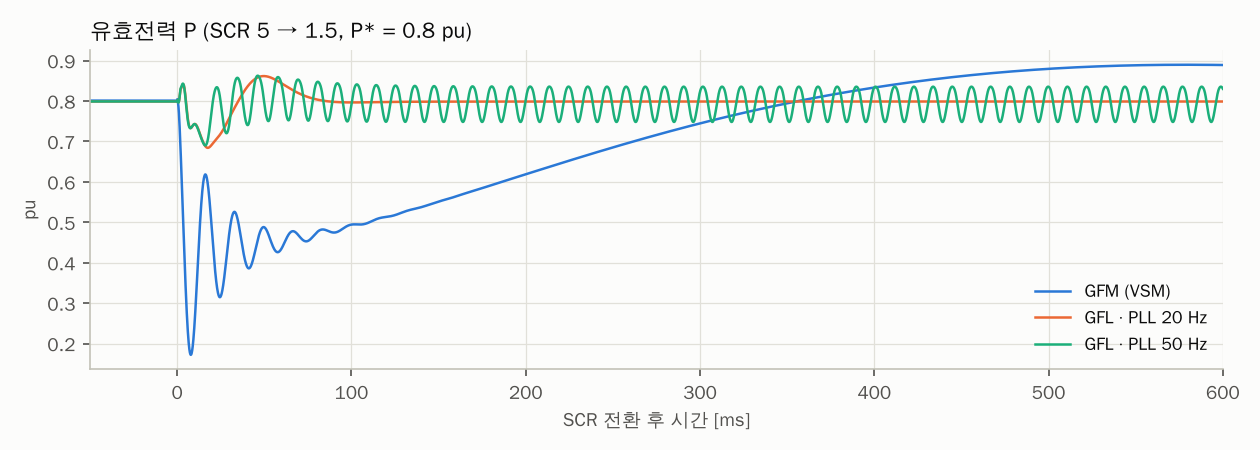
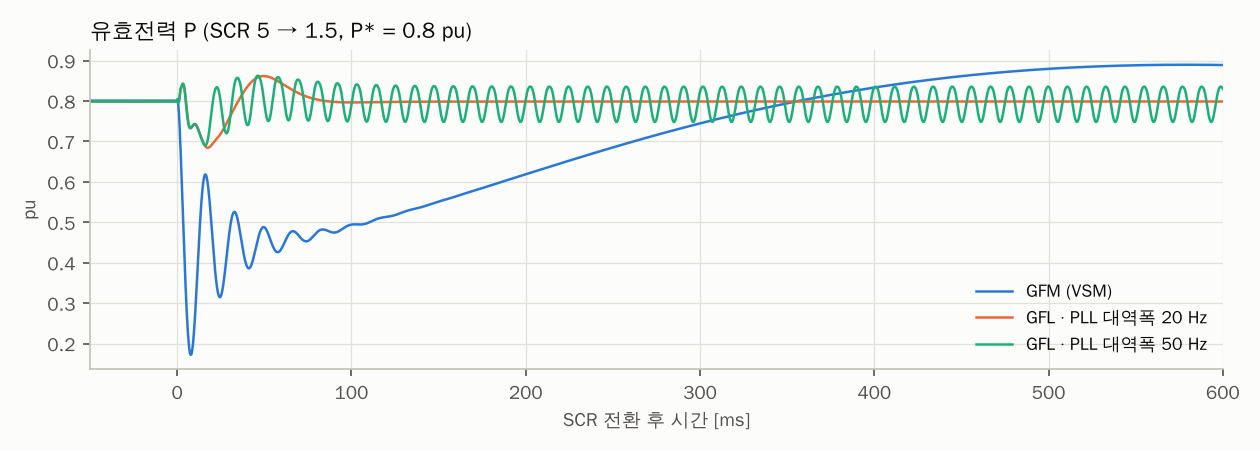
docs: 변조 한계를 1.303 pu로 정정, 'PLL 대역폭' 표기 통일, 관련 그림 재생성
- V_dc/√3 = 2.2561/√3 = 1.3026 → 1.303 pu (기존 1.302는 반올림 오류)
- 강좌·계획·README의 'PLL x Hz'를 'PLL 대역폭 x Hz'로 (계통 주파수 60 Hz와 구분)
- C03·C03B·C04·C06·C08·C09·C10 그림 재생성

Claude-Session: https://claude.ai/code/session_01JwYyJrLg4g9BGRvmGMf9oK

Changed region(s): [[0.7738, 0.6222, 0.9286, 0.7156], [0.7738, 0.7467, 0.9286, 0.7778]]

diff --git a/docs/_assets/강좌/scripts/C04_figs.py b/docs/_assets/강좌/scripts/C04_figs.py
@@ -23,7 +23,7 @@ def minmax(ref):
     return -0.5 * (ref.max(axis=1) + ref.min(axis=1))
 
 
-# ---- 그림 1: 영상분 주입 변조파 (상전압 지령 진폭 1.302 pu) ----
+# ---- 그림 1: 영상분 주입 변조파 (상전압 지령 진폭 1.303 pu) ----
 t = np.linspace(0, 1 / f0, 2001)
 vm = VDC / np.sqrt(3)
 ref = np.stack([vm * np.cos(2 * np.pi * f0 * t - k * 2 * np.pi / 3) for k in range(3)], axis=1)
@@ -33,7 +33,7 @@ fig, axs = plt.subplots(3, 1, figsize=(7.2, 6.6), sharex=True)
 for k, (nm, c) in enumerate(zip("abc", (BLUE, ORANGE, AQUA))):
     axs[0].plot(tm, ref[:, k], color=c, label=f"{nm}상 지령")
 axs[0].set_ylabel("상전압 지령 [pu]")
-axs[0].set_title("지령 진폭 1.302 pu: 사인 그대로는 ±1.128 pu(= ±$V_{dc}$/2)를 넘는다", fontsize=10)
+axs[0].set_title("지령 진폭 1.303 pu: 사인 그대로는 ±1.128 pu(= ±$V_{dc}$/2)를 넘는다", fontsize=10)
 axs[1].plot(tm, v0, color=GRAY, label="$v_0 = -(\\max+\\min)/2$")
 axs[1].set_ylabel("영상분 [pu]")
 axs[1].set_title("min-max 영상분 (3배 주파수 삼각파 모양)", fontsize=10)
@@ -51,7 +51,7 @@ for a in axs:
     a.grid(alpha=0.25, lw=0.5)
     a.legend(loc="upper right", fontsize=8, ncol=3, frameon=False)
 for a in (axs[0], axs[2]):
-    a.annotate("-1.302", xy=(8.33, -1.302), xytext=(9.6, -1.52), fontsize=8, color=BLUE,
+    a.annotate("-1.303", xy=(8.33, -1.303), xytext=(9.6, -1.52), fontsize=8, color=BLUE,
                arrowprops=dict(arrowstyle="-", color=BLUE, lw=0.6))
 axs[1].set_ylim(-0.5, 0.6); axs[1].set_yticks([-0.2, 0, 0.2]); axs[1].set_yticklabels(["-0.2", "0", "0.2"])
 fig.tight_layout()

diff --git a/docs/_assets/강좌/scripts/C10_figs.py b/docs/_assets/강좌/scripts/C10_figs.py
@@ -54,8 +54,8 @@ def tms(r):
 
 
 def fig_scr_step(plt):
-    cases = [("GFM (VSM)", "GFM", 20, BLUE, "-"), ("GFL · PLL 20 Hz", "GFL", 20, ORANGE, "-"),
-             ("GFL · PLL 50 Hz", "GFL", 50, AQUA, "-")]
+    cases = [("GFM (VSM)", "GFM", 20, BLUE, "-"), ("GFL · PLL 대역폭 20 Hz", "GFL", 20, ORANGE, "-"),
+             ("GFL · PLL 대역폭 50 Hz", "GFL", 50, AQUA, "-")]
     res = [(lab, run_scr(m, fp, 1.5, 0.8), c, ls) for lab, m, fp, c, ls in cases]
     fig, ax = plt.subplots(figsize=(8.4, 3.0))
     for lab, r, c, ls in res:
@@ -75,10 +75,10 @@ def fig_osc_types(plt):
     r2 = run_scr("GFL", 50, 1.5, 0.8)
     fig, ax = plt.subplots(1, 2, figsize=(8.4, 3.0))
     ax[0].plot(tms(r1), r1["P"], color=ORANGE)
-    ax[0].set_title("① 동기화 상실형: PLL 10 Hz, SCR 1.3")
+    ax[0].set_title("① 동기화 상실형: PLL 대역폭 10 Hz, SCR 1.3")
     ax[0].set_xlim(-50, 600)
     ax[1].plot(tms(r2), r2["P"], color=AQUA)
-    ax[1].set_title("② 상호작용형: PLL 50 Hz, SCR 1.5")
+    ax[1].set_title("② 상호작용형: PLL 대역폭 50 Hz, SCR 1.5")
     ax[1].set_xlim(400, 460)
     ax[1].set_ylim(0.72, 0.88)
     for a in ax:

diff --git a/simulation/emt/test_emt.py b/simulation/emt/test_emt.py
@@ -87,7 +87,7 @@ def test_gfm_current_limit_during_fault():
 def test_switching_model_steady_state_and_ripple():
     """5 kHz 스위칭 모델: 샘플 평균은 지령을 추종하고, 순시 전류에는 스위칭 리플이 있다."""
     p = Params(P_ref=0.5, scr=3.0)                       # 기본 converter="switching"
-    assert abs(p.V_conv_max - 700 / math.sqrt(3) / (380 * math.sqrt(2 / 3))) < 1e-9   # 1.302 pu
+    assert abs(p.V_conv_max - 700 / math.sqrt(3) / (380 * math.sqrt(2 / 3))) < 1e-9   # 1.303 pu
     for mode in ("GFL", "GFM"):
         r = simulate(mode, p, Scenario(t_end=1.0, p_ref=lambda t: 0.5 * min(1.0, t / 0.3)),
                      dt=2e-6, hires=(0.95, 0.97))

diff --git a/docs/_assets/강좌/scripts/C06_figs.py b/docs/_assets/강좌/scripts/C06_figs.py
@@ -178,7 +178,7 @@ axs[1].axhline(60.0, color=GRAY, lw=0.7, ls=":")
 axs[1].set_ylabel("PLL 측정 주파수 [Hz]")
 axs[1].set_xlabel("시간 [ms] (5 ms 이동평균)")
 axs[1].set_ylim(59.5, 62.0)
-axs[1].set_title(f"EMT 모델, PLL 50 Hz: 오프셋 ≈ kp·ω·Ts/2 = {off_hz:.2f} Hz (계통은 60 Hz)", fontsize=10)
+axs[1].set_title(f"EMT 모델, PLL 대역폭 50 Hz: 오프셋 ≈ kp·ω·Ts/2 = {off_hz:.2f} Hz (계통은 60 Hz)", fontsize=10)
 axs[1].legend(loc="upper right", fontsize=8, frameon=False)
 for a in axs:
     a.grid(alpha=0.25, lw=0.5)

diff --git a/docs/_assets/강좌/scripts/C03B_figs.py b/docs/_assets/강좌/scripts/C03B_figs.py
@@ -34,7 +34,7 @@ def cls(v):
     return "large"
 
 style = {"large": (BLUE, f"대벡터 6개 (|V| = 2/3·$V_{{dc}}$ = {2*VDC/3:.3f} pu)"),
-         "medium": (ORANGE, "중벡터 6개 (|V| = $V_{dc}/\\sqrt{3}$ ≈ 1.302 pu)"),
+         "medium": (ORANGE, "중벡터 6개 (|V| = $V_{dc}/\\sqrt{3}$ ≈ 1.303 pu)"),
          "small": (AQUA, f"소벡터 6개 × 상태 2개 (|V| = $V_{{dc}}$/3 = {VDC/3:.3f} pu)"),
          "zero": (GRAY, "영벡터 1개 × 상태 3개")}
 fig, ax = plt.subplots(figsize=(7.0, 6.6))

diff --git a/simulation/emt/gfm_gfl_emt.py b/simulation/emt/gfm_gfl_emt.py
@@ -104,7 +104,7 @@ class Params:
 
     @property
     def V_conv_max(self) -> float:
-        """선형 변조 영역에서 컨버터가 낼 수 있는 최대 상전압 진폭 [pu] (700 V/380 V, SVPWM → 1.302)."""
+        """선형 변조 영역에서 컨버터가 낼 수 있는 최대 상전압 진폭 [pu] (700 V/380 V, SVPWM → 1.303)."""
         vmax = self.V_dc / math.sqrt(3.0) if self.modulation == "svpwm" else self.V_dc / 2.0
         return vmax / self.V_base_peak
 

diff --git a/docs/_assets/강좌/scripts/C03_figs.py b/docs/_assets/강좌/scripts/C03_figs.py
@@ -34,7 +34,7 @@ ax.plot(hexv.real, hexv.imag, color=BLUE, lw=1.0, label="유효 벡터를 잇는
 r = VDC / np.sqrt(3)
 th = np.linspace(0, 2 * np.pi, 300)
 ax.plot(r * np.cos(th), r * np.sin(th), color=AQUA, lw=1.0, ls="--",
-        label="내접원 반지름 $V_{dc}/\\sqrt{3}$ ≈ 1.302 pu")
+        label="내접원 반지름 $V_{dc}/\\sqrt{3}$ ≈ 1.303 pu")
 for k, s in enumerate(order):
     v = ab(*s)
     ax.annotate("", xy=(v.real, v.imag), xytext=(0, 0),

diff --git a/docs/_assets/강좌/scripts/C09_figs.py b/docs/_assets/강좌/scripts/C09_figs.py
@@ -82,7 +82,7 @@ def fig_phase_jump(plt):
     for mode, c in (("GFM", BLUE), ("GFL", ORANGE)):
         r = res[mode]
         t = (np.asarray(r["t"]) - t_ev) * 1e3
-        lab = "GFM (VSM)" if mode == "GFM" else "GFL (PLL 20 Hz)"
+        lab = "GFM (VSM)" if mode == "GFM" else "GFL (PLL 대역폭 20 Hz)"
         ax[0].plot(t, r["P"], color=c, label=lab)
         ax[1].plot(t, r["freq"], color=c, label=lab)
     ax[0].axvspan(0, 10, color=GRID, alpha=0.6, lw=0)

diff --git a/docs/_assets/강좌/scripts/C08_figs.py b/docs/_assets/강좌/scripts/C08_figs.py
@@ -94,7 +94,7 @@ def fig_phase_jump(plt):
     ax[0].legend(loc="center right")
     ax[1].plot(t, r["freq"], color=ORANGE)
     ax[1].axhline(54, color=GREY, lw=0.8, ls=":")
-    ax[1].set_title("PLL 측정 주파수 (PLL 20 Hz)")
+    ax[1].set_title("PLL 측정 주파수 (PLL 대역폭 20 Hz)")
     ax[1].set_ylabel("Hz")
     for a in ax:
         a.set_xlabel("위상 점프(−20°) 후 시간 [ms]")

diff --git a/docs/09-강좌-3상컨버터에서-GFM까지/C04-변조-SPWM-SVPWM.md b/docs/09-강좌-3상컨버터에서-GFM까지/C04-변조-SPWM-SVPWM.md
@@ -24,13 +24,13 @@ updated: 2026-11-01
 # C04. 변조 — SPWM과 SVPWM
 
 > [!abstract] 이 강의에서 답할 질문
-> 스위치 상태 8개뿐인 컨버터가 원하는 크기의 사인파 전압을 어떻게 "평균으로" 만드는가? 그리고 같은 $V_{dc}$ = 2.256 pu 에서 낼 수 있는 최대 전압이 왜 1.128 pu 가 아니라 1.302 pu 이며, 그 여유가 GFM 성능과 어떻게 이어지는가?
+> 스위치 상태 8개뿐인 컨버터가 원하는 크기의 사인파 전압을 어떻게 "평균으로" 만드는가? 그리고 같은 $V_{dc}$ = 2.256 pu 에서 낼 수 있는 최대 전압이 왜 1.128 pu 가 아니라 1.303 pu 이며, 그 여유가 GFM 성능과 어떻게 이어지는가?
 
 > [!info] 학습 목표
 > - 삼각파 비교 PWM과 변조지수를 설명하고, 듀티에서 평균 극전압을 계산할 수 있다.
-> - SPWM의 최대 상전압 진폭 $V_{dc}/2$ = 1.128 pu 와 min-max 영상분 주입(= SVPWM 등가)의 $V_{dc}/\sqrt3$ ≈ 1.302 pu 를 유도할 수 있다.
+> - SPWM의 최대 상전압 진폭 $V_{dc}/2$ = 1.128 pu 와 min-max 영상분 주입(= SVPWM 등가)의 $V_{dc}/\sqrt3$ ≈ 1.303 pu 를 유도할 수 있다.
 > - 과변조, 스위칭 고조파의 위치, 반송파 꼭짓점 동기 2회 갱신을 설명할 수 있다.
-> - 운전점과 과도 응답에 필요한 전압을 1.302 pu 와 비교해 전압 여유를 판단할 수 있다.
+> - 운전점과 과도 응답에 필요한 전압을 1.303 pu 와 비교해 전압 여유를 판단할 수 있다.
 
 ## 1. 핵심 개념
 
@@ -73,7 +73,7 @@ $$
 주입 후 변조파의 최댓값은 $\tfrac{\sqrt3}{2}\hat V$ 로 줄어든다. 이것이 $V_{dc}/2$ 에 닿을 때가 한계이므로
 
 $$
-\hat V_{\max} = \frac{V_{dc}}{\sqrt3} \approx 1.302\ \text{pu}, \qquad \frac{1.302}{1.128} = \frac{2}{\sqrt3} \approx 1.155 \;(\text{약 } 15.5\,\%\ \text{이득})
+\hat V_{\max} = \frac{V_{dc}}{\sqrt3} \approx 1.303\ \text{pu}, \qquad \frac{1.303}{1.128} = \frac{2}{\sqrt3} \approx 1.155 \;(\text{약 } 15.5\,\%\ \text{이득})
 $$
 
 이는 [[C03-2레벨-VSC]] 육각형의 내접원 반지름과 같다. 즉 min-max 주입은 육각형을 남김없이 쓰는 변조이고, 공간벡터 PWM(space vector PWM, SVPWM)과 같은 스위칭 패턴을 만든다. 모델의 `Inverter.sample()` 이 정확히 이 식으로 상별 듀티를 계산한다(±1 로 클리핑).
@@ -97,7 +97,7 @@ $$
 
 ### 1.4 과변조
 
-지령이 1.302 pu 를 넘으면 변조파가 ±1 을 넘어 클리핑되는 구간이 생긴다. 이를 **과변조(overmodulation)** 라 한다.
+지령이 1.303 pu 를 넘으면 변조파가 ±1 을 넘어 클리핑되는 구간이 생긴다. 이를 **과변조(overmodulation)** 라 한다.
 
 - 기본파 출력은 지령보다 덜 늘고(이득 저하), 5·7·11·13차 같은 저차 고조파가 생긴다.
 - 끝은 육각형 꼭짓점만 차례로 쓰는 6스텝이며, 기본파 진폭은 $2V_{dc}/\pi$ = 1.436 pu ($m = 4/\pi$ ≈ 1.273) 다([[C03-2레벨-VSC]] 그림 2).
@@ -122,9 +122,9 @@ $$
 - 모델의 기록 간격 100 µs 도 꼭짓점에 맞춰 있어 기록값이 리플 평균에 해당한다.
 - 샘플 후 계산한 지령은 다음 샘플에 적용되고(1샘플), PWM 출력은 평균적으로 반 샘플 늦다. 합계 약 1.5 $T_s$ = 150 µs 지연이며, 이는 [[C06-디지털-제어와-지연]]에서 다룬다.
 
-### 1.7 전압 여유 1.302 pu 의 의미
+### 1.7 전압 여유 1.303 pu 의 의미
 
-1.302 pu 는 컨버터가 단자에 걸 수 있는 전압 **전부**다. 다음이 모두 이 안에 들어가야 한다.
+1.303 pu 는 컨버터가 단자에 걸 수 있는 전압 **전부**다. 다음이 모두 이 안에 들어가야 한다.
 
 1. **PCC 전압 자체**: 정상 1 pu, 계통 고전압 조건에서는 그 이상.
 2. **필터·변압기 전압강하**: 전류가 리액턴스($L_f + L_t$ = 0.3 pu)에 만드는 강하. 무효전력을 내보낼수록(용량성 운전) 크다.
@@ -158,7 +158,7 @@ $$
 
 ![[C04-영상분주입-변조파.png]]
 
-*그림 1. 상전압 지령 진폭 1.302 pu. 위: 사인 지령은 ±1.128 pu(= ±$V_{dc}$/2, 주황 점선)를 넘는다. 가운데: min-max 영상분(3배 주파수 삼각파 모양). 아래: 주입 후 변조파는 봉우리가 깎여 정확히 ±1.128 pu 에 닿는다.*
+*그림 1. 상전압 지령 진폭 1.303 pu. 위: 사인 지령은 ±1.128 pu(= ±$V_{dc}$/2, 주황 점선)를 넘는다. 가운데: min-max 영상분(3배 주파수 삼각파 모양). 아래: 주입 후 변조파는 봉우리가 깎여 정확히 ±1.128 pu 에 닿는다.*
 
 ![[C04-반송파-2회갱신.png]]
 
@@ -218,7 +218,7 @@ print(f"주입 없이 최대 진폭  = {h:.4f} pu")
 print(f"min-max 주입 최대 진폭 = {lo:.4f} pu   (V_dc/√3 = {V_dc/np.sqrt(3):.4f})")
 
 ref, mw = modwave(V_dc / np.sqrt(3))
-plt.plot(t * 1e3, ref[0], ":", label="사인 지령 1.302 pu")
+plt.plot(t * 1e3, ref[0], ":", label="사인 지령 1.303 pu")
 plt.plot(t * 1e3, mw[0], label="영상분 주입 변조파")
 plt.axhline(h, ls="--", color="gray"); plt.axhline(-h, ls="--", color="gray")
 plt.xlabel("시간 [ms]"); plt.ylabel("[pu]"); plt.legend(); plt.show()
@@ -238,7 +238,7 @@ X = 0.20 + 0.10                                  # Lf + 변압기 [pu]
 for V, P, Q in ((1.0, 1.0, 0.0), (1.0, 0.8, 0.6), (1.0, 0.0, 1.0), (1.1, 0.8, 0.6)):
     i = np.conj((P + 1j * Q) / V)                # PCC 전압을 기준 위상(실수)으로
     v_conv = V + 1j * X * i
-    print(f"V={V:.2f} P={P:+.1f} Q={Q:+.1f} → |v_conv| = {abs(v_conv):.3f} pu  (여유 {1.302-abs(v_conv):+.3f})")
+    print(f"V={V:.2f} P={P:+.1f} Q={Q:+.1f} → |v_conv| = {abs(v_conv):.3f} pu  (여유 {1.303-abs(v_conv):+.3f})")
 ```
 
 ```
@@ -256,13 +256,13 @@ V=1.10 P=+0.8 Q=+0.6 → |v_conv| = 1.282 pu  (여유 +0.020)
 ## 4. 흔한 오해
 
 > [!warning] 오해: DC 전압만 충분하면 GFM 성능은 변조와 무관하다
-> GFM은 위상 점프나 고장 같은 계통 외란에 **즉시** 전류를 바꿔 응답하는 것이 핵심 기능이다([[04-GFM-핵심기능]]). 전류를 바꾸려면 필터 인덕터에 추가 전압을 걸어야 하고, 그 전압은 "1.302 pu − 정상상태 필요 전압"인 여유에서만 나온다. 같은 $V_{dc}$ 라도 용량성 무효전력을 내거나 계통 전압이 높으면 여유가 0에 가까워져, 위상 점프 응답이 느려지거나 전압 제한에 걸려 파형이 일그러진다. 고장 제거 후 전압이 돌아오는 순간에도 전류를 제자리로 돌리는 데 여유가 쓰인다([[03-전류제한-고장대응]], [[C11-전류-제한과-고장]]). SPWM(1.128 pu)이었다면 P = 0.8, Q = 0.6 운전점부터 이미 불가능하다.
+> GFM은 위상 점프나 고장 같은 계통 외란에 **즉시** 전류를 바꿔 응답하는 것이 핵심 기능이다([[04-GFM-핵심기능]]). 전류를 바꾸려면 필터 인덕터에 추가 전압을 걸어야 하고, 그 전압은 "1.303 pu − 정상상태 필요 전압"인 여유에서만 나온다. 같은 $V_{dc}$ 라도 용량성 무효전력을 내거나 계통 전압이 높으면 여유가 0에 가까워져, 위상 점프 응답이 느려지거나 전압 제한에 걸려 파형이 일그러진다. 고장 제거 후 전압이 돌아오는 순간에도 전류를 제자리로 돌리는 데 여유가 쓰인다([[03-전류제한-고장대응]], [[C11-전류-제한과-고장]]). SPWM(1.128 pu)이었다면 P = 0.8, Q = 0.6 운전점부터 이미 불가능하다.
 
 > [!warning] 오해: SVPWM은 반송파 PWM과 완전히 다른 알고리즘이다
 > 영벡터를 반씩 나누는 고전적 SVPWM은 반송파 비교 PWM에 min-max 영상분을 더한 것과 같은 스위칭 패턴을 만든다. 섹터 판별·시간 계산 없이 상별 비교만으로 구현할 수 있어, 이 강좌의 모델도 그렇게 한다.
 
 > [!warning] 오해: 과변조 영역까지 쓰면 전압이 더 나오니 손해가 없다
-> 1.302 pu 를 넘으면 기본파 이득이 떨어지고 5·7차 등 저차 고조파가 생긴다. 전류 제어기가 보기엔 지령 전압이 나오지 않는 것이므로 응답이 나빠진다. 그래서 대부분의 제어기는 지령을 선형 한계(원)로 자르고 적분기를 멈춘다.
+> 1.303 pu 를 넘으면 기본파 이득이 떨어지고 5·7차 등 저차 고조파가 생긴다. 전류 제어기가 보기엔 지령 전압이 나오지 않는 것이므로 응답이 나빠진다. 그래서 대부분의 제어기는 지령을 선형 한계(원)로 자르고 적분기를 멈춘다.
 
 ## 5. 확인 문제
 
@@ -277,7 +277,7 @@ V=1.10 P=+0.8 Q=+0.6 → |v_conv| = 1.282 pu  (여유 +0.020)
 
 > [!success]- 답
 > $\vec i = 0.8 - j0.6$, $\vec v_{conv} = 1 + j0.3(0.8 - j0.6) = 1.18 + j0.24$, $|\vec v_{conv}| = 1.204$ pu.
-> SVPWM 한계 1.302 pu 대비 여유 0.098 pu. 전류 0.5 pu 를 바꾸는 데 최소 약 $0.2 \times 0.5 / (377 \times 0.098) \approx 2.7$ ms.
+> SVPWM 한계 1.303 pu 대비 여유 0.098 pu. 전류 0.5 pu 를 바꾸는 데 최소 약 $0.2 \times 0.5 / (377 \times 0.098) \approx 2.7$ ms.
 > SPWM 한계 1.128 pu 로는 정상상태조차 유지할 수 없다(전압 제한에 걸림).
 
 3. 그림 3에서 극전압 스펙트럼에는 정확히 5 kHz 성분이 크게 보이는데 상전압에는 없다. 이유는?

diff --git a/docs/09-강좌-3상컨버터에서-GFM까지/C03B-3레벨-컨버터.md b/docs/09-강좌-3상컨버터에서-GFM까지/C03B-3레벨-컨버터.md
@@ -29,7 +29,7 @@ updated: 2026-11-01
 > - 27개 상태를 대·중·소·영 벡터로 분류하고 각 크기를 계산할 수 있다.
 > - 2레벨 대비 출력 계단 수가 늘어 고조파·필터 부담이 줄어드는 이유를 정성적으로 말할 수 있다.
 > - 중복 소벡터 쌍으로 중성점 전위를 조절하는 원리를 설명할 수 있다.
-> - 3레벨도 선형 변조 한계가 $V_{dc}/\sqrt3$ ≈ 1.302 pu 로 2레벨과 같음을 보일 수 있다.
+> - 3레벨도 선형 변조 한계가 $V_{dc}/\sqrt3$ ≈ 1.303 pu 로 2레벨과 같음을 보일 수 있다.
 
 > [!info] 이 강의의 위치
 > 선택 강의다. 강좌의 기준 설비와 EMT 모델(`simulation/emt/gfm_gfl_emt.py`)은 2레벨이며, 이후 강의는 이 내용을 몰라도 따라갈 수 있다. 소자 손실과 소자 비교는 다루지 않는다.
@@ -67,7 +67,7 @@ $$
 | 분류 | 예 | 크기 [pu] | 점 수 | 상태 수 | 중성점 전류 |
 |---|---|---|---|---|---|
 | 대벡터 (large) | PNN | $\tfrac{2}{3}V_{dc}$ = 1.504 | 6 | 6 | 없음 |
-| 중벡터 (medium) | PON | $V_{dc}/\sqrt3$ ≈ 1.302 | 6 | 6 | O 상의 전류 (제어 불가) |
+| 중벡터 (medium) | PON | $V_{dc}/\sqrt3$ ≈ 1.303 | 6 | 6 | O 상의 전류 (제어 불가) |
 | 소벡터 (small) | POO / ONN | $V_{dc}/3$ = 0.752 | 6 | 12 (쌍) | 쌍끼리 부호 반대 |
 | 영벡터 (zero) | PPP, OOO, NNN | 0 | 1 | 3 | 없음 |
 
@@ -79,7 +79,7 @@ $$
 > [!note]- 유도: 네 무리의 크기
 > $\vec v = \tfrac{V_{dc}}{3}(s_a + a s_b + a^2 s_c)$ 로 놓는다.
 > - 대벡터 PNN = (1, −1, −1): $1 - a - a^2 = 1 - (a + a^2) = 1 - (-1) = 2$ → $\tfrac{2}{3}V_{dc}$ = 1.504 pu.
-> - 중벡터 PON = (1, 0, −1): $1 - a^2$, $|1 - a^2| = \sqrt3$ → $V_{dc}/\sqrt3$ ≈ 1.302 pu, 각도 30°.
+> - 중벡터 PON = (1, 0, −1): $1 - a^2$, $|1 - a^2| = \sqrt3$ → $V_{dc}/\sqrt3$ ≈ 1.303 pu, 각도 30°.
 > - 소벡터 POO = (1, 0, 0) → $V_{dc}/3$ = 0.752 pu.
 >   ONN = (0, −1, −1): $-(a + a^2) = 1$ → 같은 벡터. 세 상에 공통값 $-1$ 을 더한 것뿐이므로 αβ 가 같다([[C03-2레벨-VSC]]의 영상분 성질).
 > - 영벡터: (1,1,1), (0,0,0), (−1,−1,−1) 모두 공통값만 있으므로 0.
@@ -104,7 +104,7 @@ $$
 바깥 육각형(대벡터)이 2레벨과 같으므로 평균으로 만들 수 있는 영역도 같다. 왜곡 없이 회전하는 벡터의 최대 크기는 내접원 반지름이다.
 
 $$
-\hat V_{\max} = \frac{V_{dc}}{\sqrt3} \approx 1.302\ \text{pu} \quad (\text{SVPWM 또는 min-max 영상분 주입과 등가})
+\hat V_{\max} = \frac{V_{dc}}{\sqrt3} \approx 1.303\ \text{pu} \quad (\text{SVPWM 또는 min-max 영상분 주입과 등가})
 $$
 
 3레벨은 같은 $V_{dc}$ 에서 **전압을 더 내는 것이 아니라 같은 전압을 더 매끄럽게** 낸다. 변조 한계와 영상분 주입은 [[C04-변조-SPWM-SVPWM]]과 똑같이 적용된다. 그림 2의 3레벨 파형도 위·아래 두 반송파(phase disposition, PD)에 min-max 영상분 주입 변조파를 비교해 만들었다.
@@ -208,7 +208,7 @@ PON: 중성점에서 빠져나가는 전류 = -0.866 pu
 ## 4. 흔한 오해
 
 > [!warning] 오해: 3레벨이면 같은 DC 전압에서 더 높은 교류 전압을 낼 수 있다
-> 바깥 육각형(대벡터)이 2레벨과 같으므로 선형 영역의 최대 상전압 진폭은 똑같이 $V_{dc}/\sqrt3$ ≈ 1.302 pu 다. 3레벨의 이득은 파형 품질(계단 수, 리플)이지 전압 여유가 아니다.
+> 바깥 육각형(대벡터)이 2레벨과 같으므로 선형 영역의 최대 상전압 진폭은 똑같이 $V_{dc}/\sqrt3$ ≈ 1.303 pu 다. 3레벨의 이득은 파형 품질(계단 수, 리플)이지 전압 여유가 아니다.
 
 > [!warning] 오해: 중복 소벡터는 어느 쪽을 써도 같으니 하나만 쓰면 된다
 > αβ 출력은 같지만 중성점 전류의 부호가 반대다. 한쪽만 쓰면 중성점 전위가 한 방향으로 계속 흘러 커패시터 전압이 무너진다. 중복 소벡터의 배분 비율이 중성점 전위를 조절하는 가장 직접적인 손잡이다.
@@ -233,7 +233,7 @@ PON: 중성점에서 빠져나가는 전류 = -0.866 pu
 3. 같은 $V_{dc}$ = 2.256 pu 에서 3레벨 NPC가 왜곡 없이 낼 수 있는 최대 상전압 진폭은? 2레벨과 비교하라.
 
 > [!success]- 답
-> $V_{dc}/\sqrt3$ ≈ 1.302 pu 로 2레벨과 같다. 대벡터(크기 1.504 pu)가 만드는 바깥 육각형이 두 구조에서 같고, 회전 벡터는 그 내접원 안에서만 왜곡 없이 만들 수 있기 때문이다.
+> $V_{dc}/\sqrt3$ ≈ 1.303 pu 로 2레벨과 같다. 대벡터(크기 1.504 pu)가 만드는 바깥 육각형이 두 구조에서 같고, 회전 벡터는 그 내접원 안에서만 왜곡 없이 만들 수 있기 때문이다.
 
 ## 연결
 
